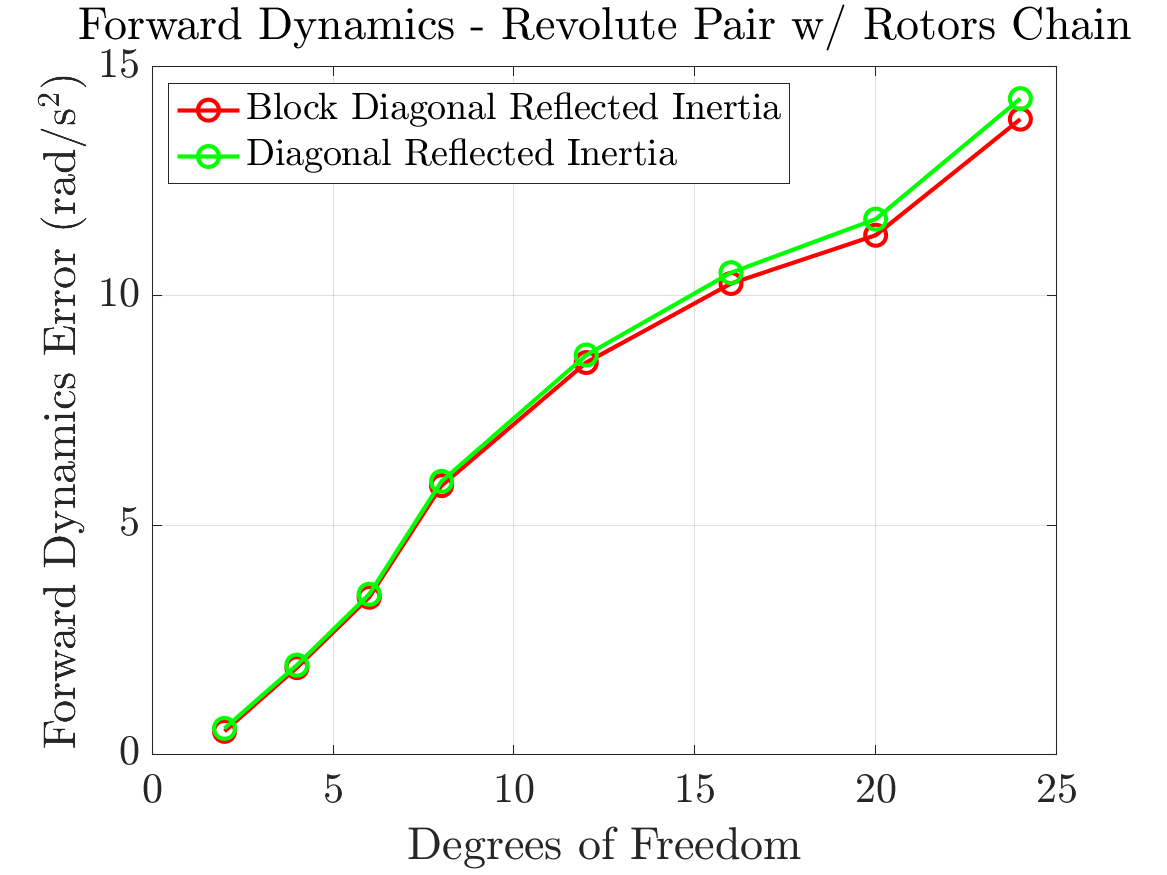
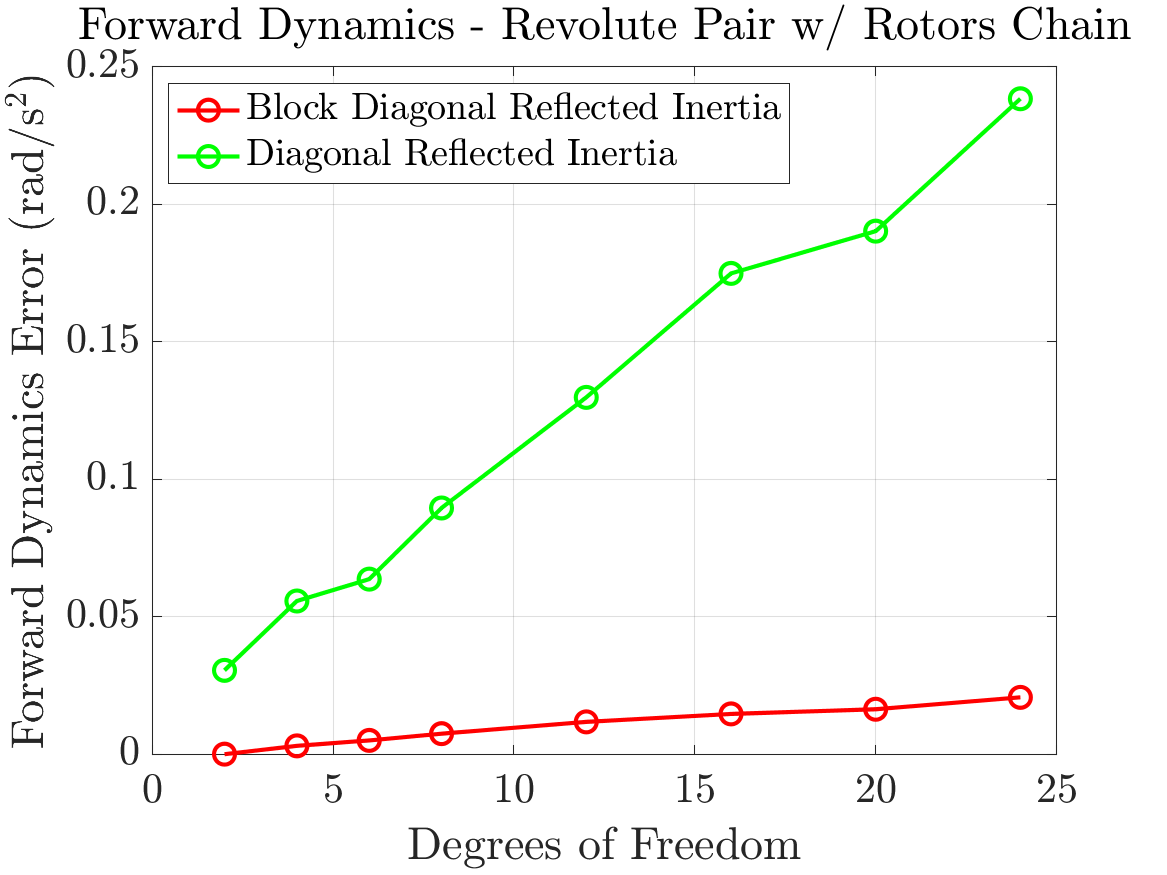
Scale down rotor inertia when building random models

diff --git a/Robots/RevolutePairChainWithRotor.cpp b/Robots/RevolutePairChainWithRotor.cpp
@@ -14,14 +14,14 @@ namespace grbda
             // Link A
             const std::string linkA_name = "link-A-" + std::to_string(i);
             const auto linkA_Xtree = randomSpatialRotation<double>();
-            const auto linkA_inertia = SpatialInertia<double>::createRandomInertia();
+            const auto linkA_inertia = randomLinkSpatialInertia();
             CoordinateAxis linkA_joint_axis = ori::randomCoordinateAxis<double>();
             auto linkA = model.registerBody(linkA_name, linkA_inertia, parent_name, linkA_Xtree);
 
             // Rotor A
             const std::string rotorA_name = "rotor-A-" + std::to_string(i);
             const auto rotorA_Xtree = randomSpatialRotation<double>();
-            const auto rotorA_inertia = SpatialInertia<double>::createRandomInertia();
+            const auto rotorA_inertia = randomRotorSpatialInertia();
             CoordinateAxis rotorA_joint_axis = ori::randomCoordinateAxis<double>();
             auto rotorA = model.registerBody(rotorA_name, rotorA_inertia,
                                              parent_name, rotorA_Xtree);
@@ -29,7 +29,7 @@ namespace grbda
             // Rotor B
             const std::string rotorB_name = "rotor-B-" + std::to_string(i);
             const auto rotorB_Xtree = randomSpatialRotation<double>();
-            const auto rotorB_inertia = SpatialInertia<double>::createRandomInertia();
+            const auto rotorB_inertia = randomRotorSpatialInertia();
             CoordinateAxis rotorB_joint_axis = ori::randomCoordinateAxis<double>();
             auto rotorB = model.registerBody(rotorB_name, rotorB_inertia,
                                              parent_name, rotorB_Xtree);
@@ -37,15 +37,15 @@ namespace grbda
             // Link B
             const std::string linkB_name = "link-B-" + std::to_string(i);
             const auto linkB_Xtree = randomSpatialRotation<double>();
-            const auto linkB_inertia = SpatialInertia<double>::createRandomInertia();
+            const auto linkB_inertia = randomLinkSpatialInertia();
             CoordinateAxis linkB_joint_axis = ori::randomCoordinateAxis<double>();
             auto linkB = model.registerBody(linkB_name, linkB_inertia, linkA_name, linkB_Xtree);
 
             // Cluster
-            const int gear_ratioA = rand() % 5 + 1;
-            const int belt_ratioA = rand() % 5 + 1;
-            const int gear_ratioB = rand() % 5 + 1;
-            const int belt_ratioB = rand() % 5 + 1;
+            const int gear_ratioA = rand() % this->_gear_ratio_scale + 1;
+            const int belt_ratioA = rand() % this->_gear_ratio_scale + 1;
+            const int gear_ratioB = rand() % this->_gear_ratio_scale + 1;
+            const int belt_ratioB = rand() % this->_gear_ratio_scale + 1;
 
             const std::string cluster_name = "cluster-" + std::to_string(i);
             auto joint = std::make_shared<GeneralizedJoints::RevolutePairWithRotor>(

diff --git a/Robots/RevoluteChainWithAndWithoutRotor.cpp b/Robots/RevoluteChainWithAndWithoutRotor.cpp
@@ -14,19 +14,19 @@ namespace grbda
             // Link
             const std::string link_name = "link-" + std::to_string(i);
             const auto link_Xtree = randomSpatialRotation<double>();
-            const auto link_inertia = SpatialInertia<double>::createRandomInertia();
+            const auto link_inertia = randomLinkSpatialInertia();
             CoordinateAxis link_joint_axis = ori::randomCoordinateAxis<double>();
             auto link = model.registerBody(link_name, link_inertia, prev_link_name, link_Xtree);
 
             // Rotor
             const std::string rotor_name = "rotor-" + std::to_string(i);
             const auto rotor_Xtree = randomSpatialRotation<double>();
-            const auto rotor_inertia = SpatialInertia<double>::createRandomInertia();
+            const auto rotor_inertia = randomRotorSpatialInertia();
             CoordinateAxis rotor_joint_axis = ori::randomCoordinateAxis<double>();
             auto rotor = model.registerBody(rotor_name, rotor_inertia, prev_link_name, rotor_Xtree);
 
             // Cluster
-            const int gear_ratio = rand() % 50 + 1;
+            const int gear_ratio = rand() % this->_gear_ratio_scale + 1;
             const std::string cluster_name = "cluster-" + std::to_string(i);
             auto joint = std::make_shared<GeneralizedJoints::RevoluteWithRotor>(
                 link, rotor, link_joint_axis, rotor_joint_axis, gear_ratio);
@@ -40,7 +40,7 @@ namespace grbda
             // Link
             const std::string link_name = "link-" + std::to_string(i);
             const auto link_Xtree = randomSpatialRotation<double>();
-            const auto link_inertia = SpatialInertia<double>::createRandomInertia();
+            const auto link_inertia = randomLinkSpatialInertia();
             CoordinateAxis link_joint_axis = ori::randomCoordinateAxis<double>();
             auto link = model.registerBody(link_name, link_inertia, prev_link_name, link_Xtree);
 

diff --git a/Robots/RevoluteChainMultiplerRotorsPerLink.cpp b/Robots/RevoluteChainMultiplerRotorsPerLink.cpp
@@ -14,7 +14,7 @@ namespace grbda
             // Link
             const std::string link_name = "link-" + std::to_string(i);
             const auto link_Xtree = randomSpatialRotation<double>();
-            const auto link_inertia = SpatialInertia<double>::createRandomInertia();
+            const auto link_inertia = randomLinkSpatialInertia();
             const CoordinateAxis link_joint_axis = ori::randomCoordinateAxis<double>();
             auto link = model.registerBody(link_name, link_inertia, prev_link_name, link_Xtree);
 
@@ -24,14 +24,16 @@ namespace grbda
             std::vector<double> gear_ratios;
             for (size_t j(0); j < M; j++)
             {
-                const std::string rotor_name = "rotor-" + std::to_string(i) + "-" + std::to_string(j);
+                const std::string rotor_name = "rotor-" + std::to_string(i) +
+                                               "-" + std::to_string(j);
                 const auto rotor_Xtree = randomSpatialRotation<double>();
-                const auto rotor_inertia = SpatialInertia<double>::createRandomInertia();
-                auto rotor = model.registerBody(rotor_name, rotor_inertia, prev_link_name, rotor_Xtree);
+                const auto rotor_inertia = randomRotorSpatialInertia();
+                auto rotor = model.registerBody(rotor_name, rotor_inertia,
+                                                prev_link_name, rotor_Xtree);
                 rotors.push_back(rotor);
 
                 rotor_axes.push_back(ori::randomCoordinateAxis<double>());
-                gear_ratios.push_back(rand() % 5 + 1);
+                gear_ratios.push_back(rand() % this->_gear_ratio_scale + 1);
             }
 
             // Cluster

diff --git a/Robots/RevoluteChainWithRotor.cpp b/Robots/RevoluteChainWithRotor.cpp
@@ -14,19 +14,19 @@ namespace grbda
             // Link
             const std::string link_name = "link-" + std::to_string(i);
             const auto link_Xtree = randomSpatialRotation<double>();
-            const auto link_inertia = SpatialInertia<double>::createRandomInertia();
+            const auto link_inertia = randomLinkSpatialInertia();
             CoordinateAxis link_joint_axis = ori::randomCoordinateAxis<double>();
             auto link = model.registerBody(link_name, link_inertia, prev_link_name, link_Xtree);
 
             // Rotor
             const std::string rotor_name = "rotor-" + std::to_string(i);
             const auto rotor_Xtree = randomSpatialRotation<double>();
-            const auto rotor_inertia = SpatialInertia<double>::createRandomInertia();
+            const auto rotor_inertia = randomRotorSpatialInertia();
             CoordinateAxis rotor_joint_axis = ori::randomCoordinateAxis<double>();
             auto rotor = model.registerBody(rotor_name, rotor_inertia, prev_link_name, rotor_Xtree);
 
             // Cluster
-            const int gear_ratio = rand() % 50 + 1;
+            const int gear_ratio = rand() % this->_gear_ratio_scale + 1;
             const std::string cluster_name = "cluster-" + std::to_string(i);
             auto joint = std::make_shared<GeneralizedJoints::RevoluteWithRotor>(
                 link, rotor, link_joint_axis, rotor_joint_axis, gear_ratio);

diff --git a/Robots/SerialChain.hpp b/Robots/SerialChain.hpp
@@ -21,11 +21,22 @@ namespace grbda
 
         virtual size_t getNumDofs() const = 0;
 
-    private:
+    protected:
         virtual ClusterTreeModel buildRandomClusterTreeModel() const = 0;
         virtual ClusterTreeModel buildUniformClusterTreeModel() const = 0;
 
+        SpatialInertia<double> randomLinkSpatialInertia() const
+        {
+            return SpatialInertia<double>::createRandomInertia();
+        }
+
+        SpatialInertia<double> randomRotorSpatialInertia() const
+        {
+            return SpatialInertia<double>::createRandomInertia(1e-4);
+        }
+
         const bool _random_parameters;
-    };
+        int _gear_ratio_scale = 5;
+        };
 
 } // namespace grbda
